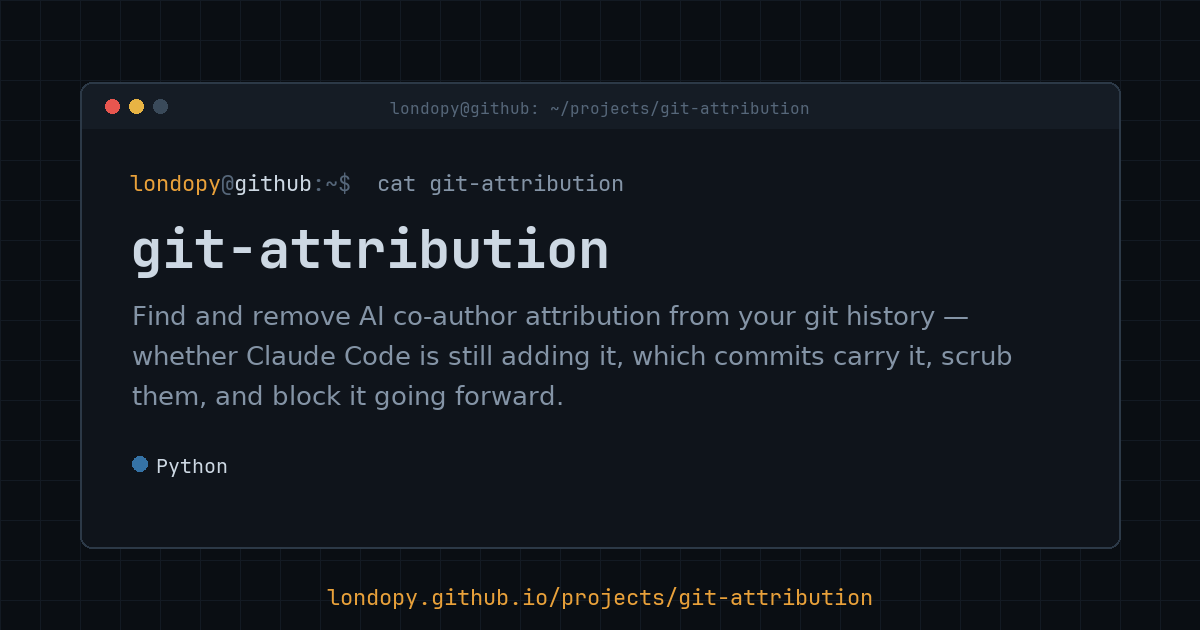
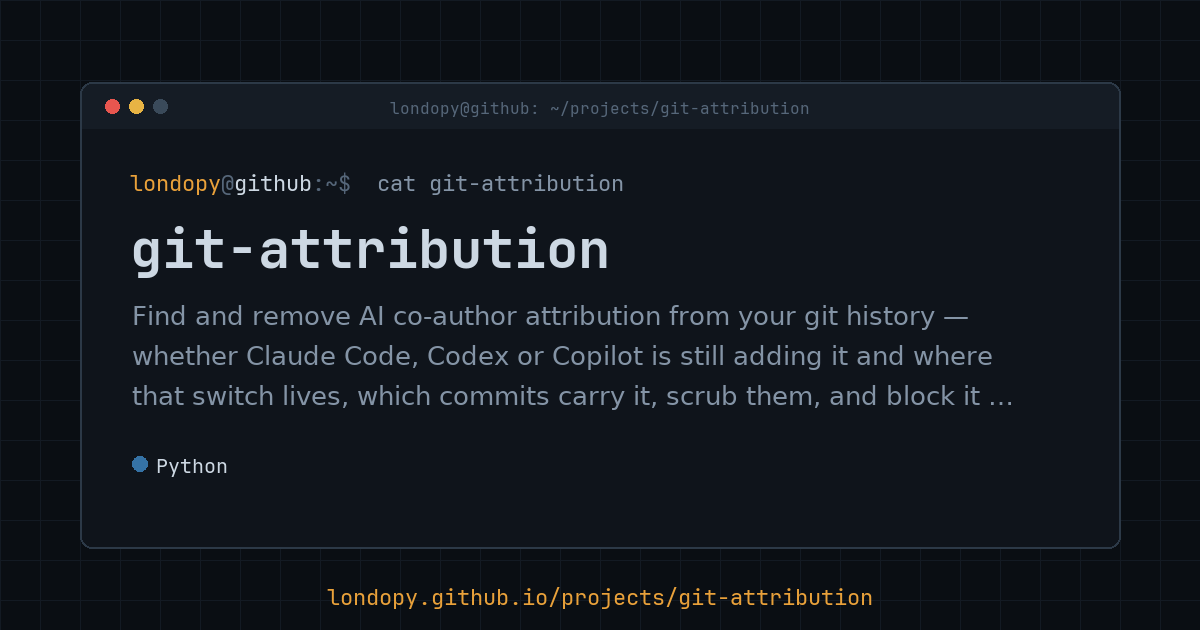
agent-skills: the rollcall family now covers every Agent Skills host
claude-skills was renamed to agent-skills; cluster is Agent tooling with
host-neutral taglines, the writeup names the hosts each tool reads, OG card
regenerated.

Changed region(s): [[0.1233, 0.5429, 0.8633, 0.6635]]

diff --git a/src/data/projectDocs.js b/src/data/projectDocs.js
@@ -200,21 +200,21 @@ artifact python { name = "hasher" }</code></pre>
 <p>Open <a href="https://londopy.github.io/beam/">londopy.github.io/beam</a> on two devices and scan.</p>
 `,
 
-  "claude-skills": `
+  "agent-skills": `
 <h2><span class="hash">##</span> What it is</h2>
-<p><strong>claude-skills</strong> is the whole rollcall family in one install — <a href="https://github.com/Londopy/skill-rollcall">skill-rollcall</a>, <a href="https://github.com/Londopy/mcp-rollcall">mcp-rollcall</a>, <a href="https://github.com/Londopy/settings-effective">settings-effective</a>, and <a href="https://github.com/Londopy/git-attribution">git-attribution</a>. Each one makes a step that Claude Code does silently legible again.</p>
+<p><strong>agent-skills</strong> is the whole rollcall family in one install — <a href="https://github.com/Londopy/skill-rollcall">skill-rollcall</a>, <a href="https://github.com/Londopy/mcp-rollcall">mcp-rollcall</a>, <a href="https://github.com/Londopy/settings-effective">settings-effective</a>, and <a href="https://github.com/Londopy/git-attribution">git-attribution</a>. Each one makes a step that a coding agent does silently legible again — and each reads the files of whichever agent you're in: Claude Code, Codex, Cursor, Gemini CLI, Copilot, VS Code, Windsurf, OpenCode.</p>
 
 <h2><span class="hash">##</span> The through-line</h2>
-<p>Claude Code registers skills, starts MCP servers, merges six settings files, and signs commits — and tells you nothing about any of it until something's missing. Each tool here rebuilds one of those silent steps <em>from disk, with the reasons attached</em>, then repairs or reports:</p>
+<p>Every coding agent registers skills, starts MCP servers, merges settings files, and signs commits — and tells you nothing about any of it until something's missing. Each also keeps those things somewhere different (<code>~/.claude</code>, <code>~/.codex</code>, <code>~/.agents</code>, <code>~/.cursor</code>, <code>~/.gemini</code>). Each tool here rebuilds one of those silent steps <em>from disk, with the reasons attached</em>, then repairs or reports:</p>
 <ul>
-<li><strong>skill-rollcall</strong> — which skills registered, which are new, which will never show up and why.</li>
-<li><strong>mcp-rollcall</strong> — which MCP servers will fail to connect and exactly why, and what each costs in tools and context.</li>
-<li><strong>settings-effective</strong> — every setting actually in effect, which file decided it, and why the value you set isn't applying.</li>
-<li><strong>git-attribution</strong> — whether AI co-author trailers are landing in your history, which commits carry them, and how to scrub and block them.</li>
+<li><strong>skill-rollcall</strong> — which skills registered for which host, which are new, which will never show up and why, and whether a skill folder passes the Agent Skills spec.</li>
+<li><strong>mcp-rollcall</strong> — which MCP servers will fail to connect and exactly why, and what each costs in tools and context, read from every host's own config shape.</li>
+<li><strong>settings-effective</strong> — every Claude Code setting actually in effect, which file decided it, and why the value you set isn't applying (runs from any host).</li>
+<li><strong>git-attribution</strong> — whether AI co-author trailers are landing in your history, where each agent's switch lives (Codex's is a workspace policy with nothing local to flip), which commits carry them, and how to scrub and block them.</li>
 </ul>
 
 <h2><span class="hash">##</span> How it's built</h2>
-<p>Every tool is a single <strong>stdlib-only Python script</strong> that also runs as a plain CLI — read-only unless you pass <code>--apply</code>, with <code>--json</code> and <code>--strict</code> for tooling and CI. This repo is the family in one install; each skill also lives in its own repo, which is the source of truth. The copies here are synced from upstream, pinned in a lock file, and CI fails if they drift.</p>
+<p>Every tool is a single <strong>stdlib-only Python script</strong> that also runs as a plain CLI — read-only unless you pass <code>--apply</code>, with <code>--json</code> and <code>--strict</code> for tooling and CI. This repo is the family in one install; each skill also lives in its own repo, which is the source of truth. The copies here are synced from upstream, pinned in a lock file, and CI fails if they drift. The layout is the <a href="https://agentskills.io">Agent Skills</a> standard, so one <code>npx skills add Londopy/agent-skills</code> installs into any of 79 agents.</p>
 `,
 
   statusmith: `
